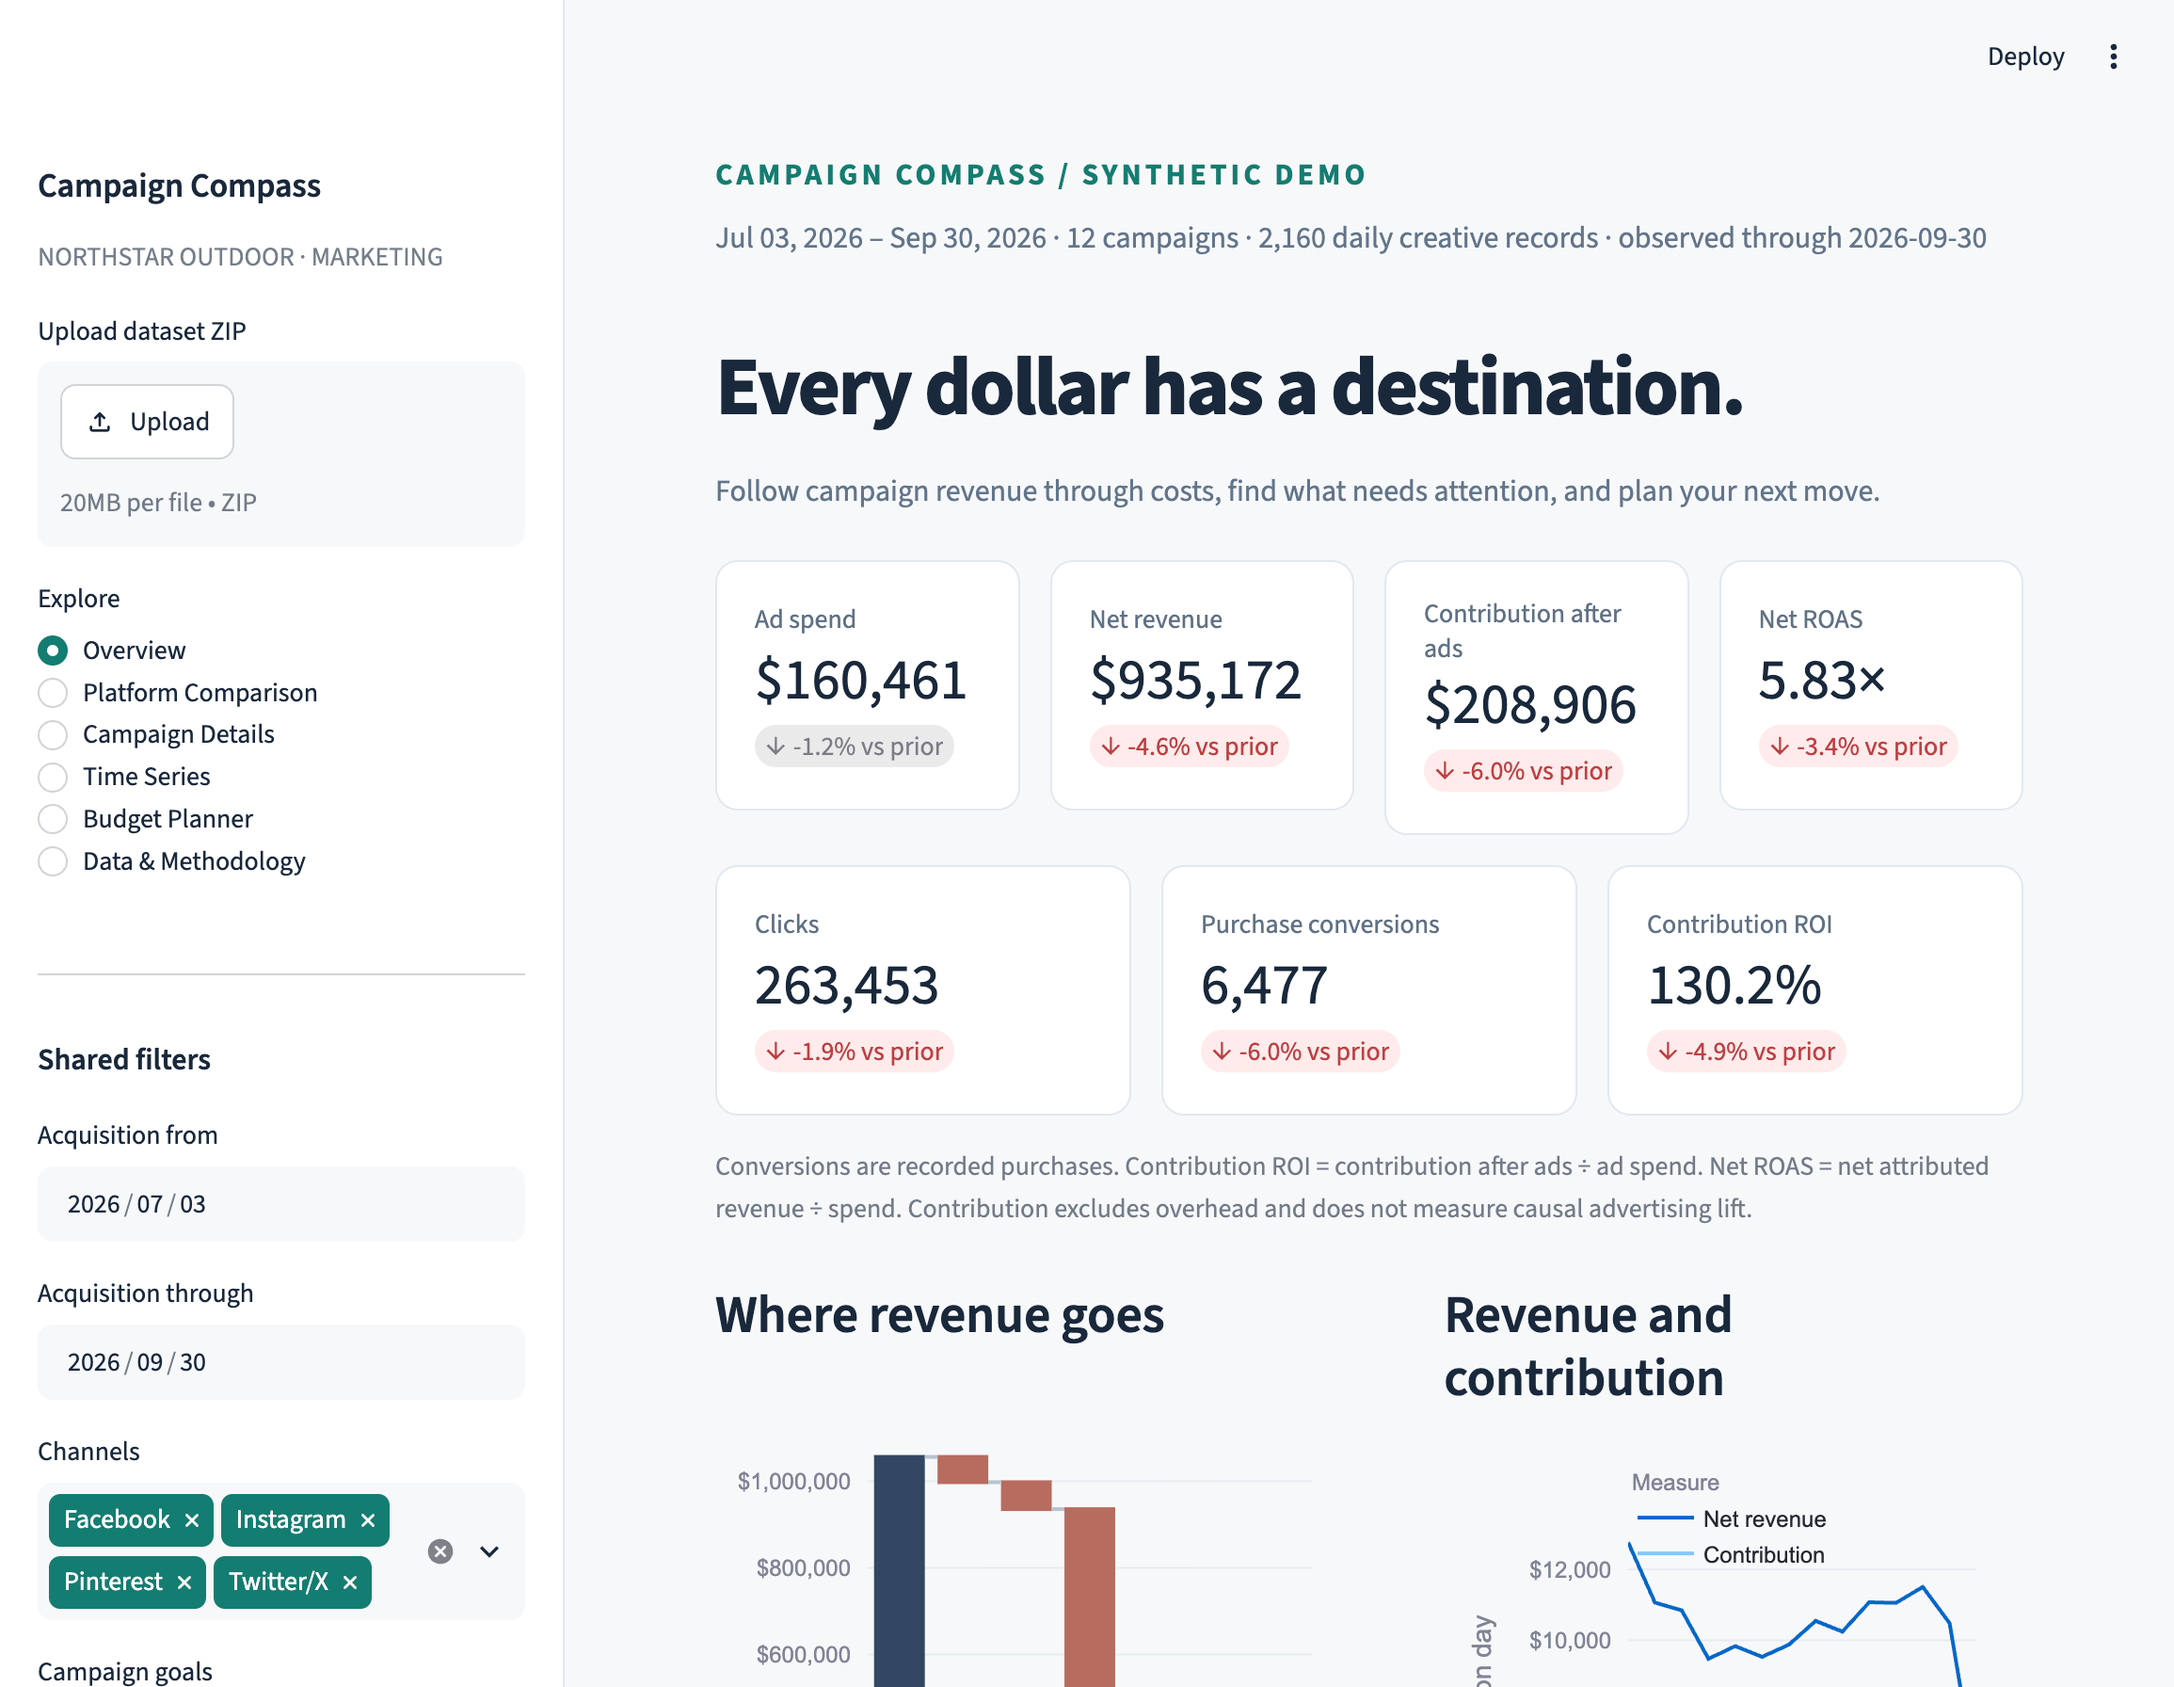
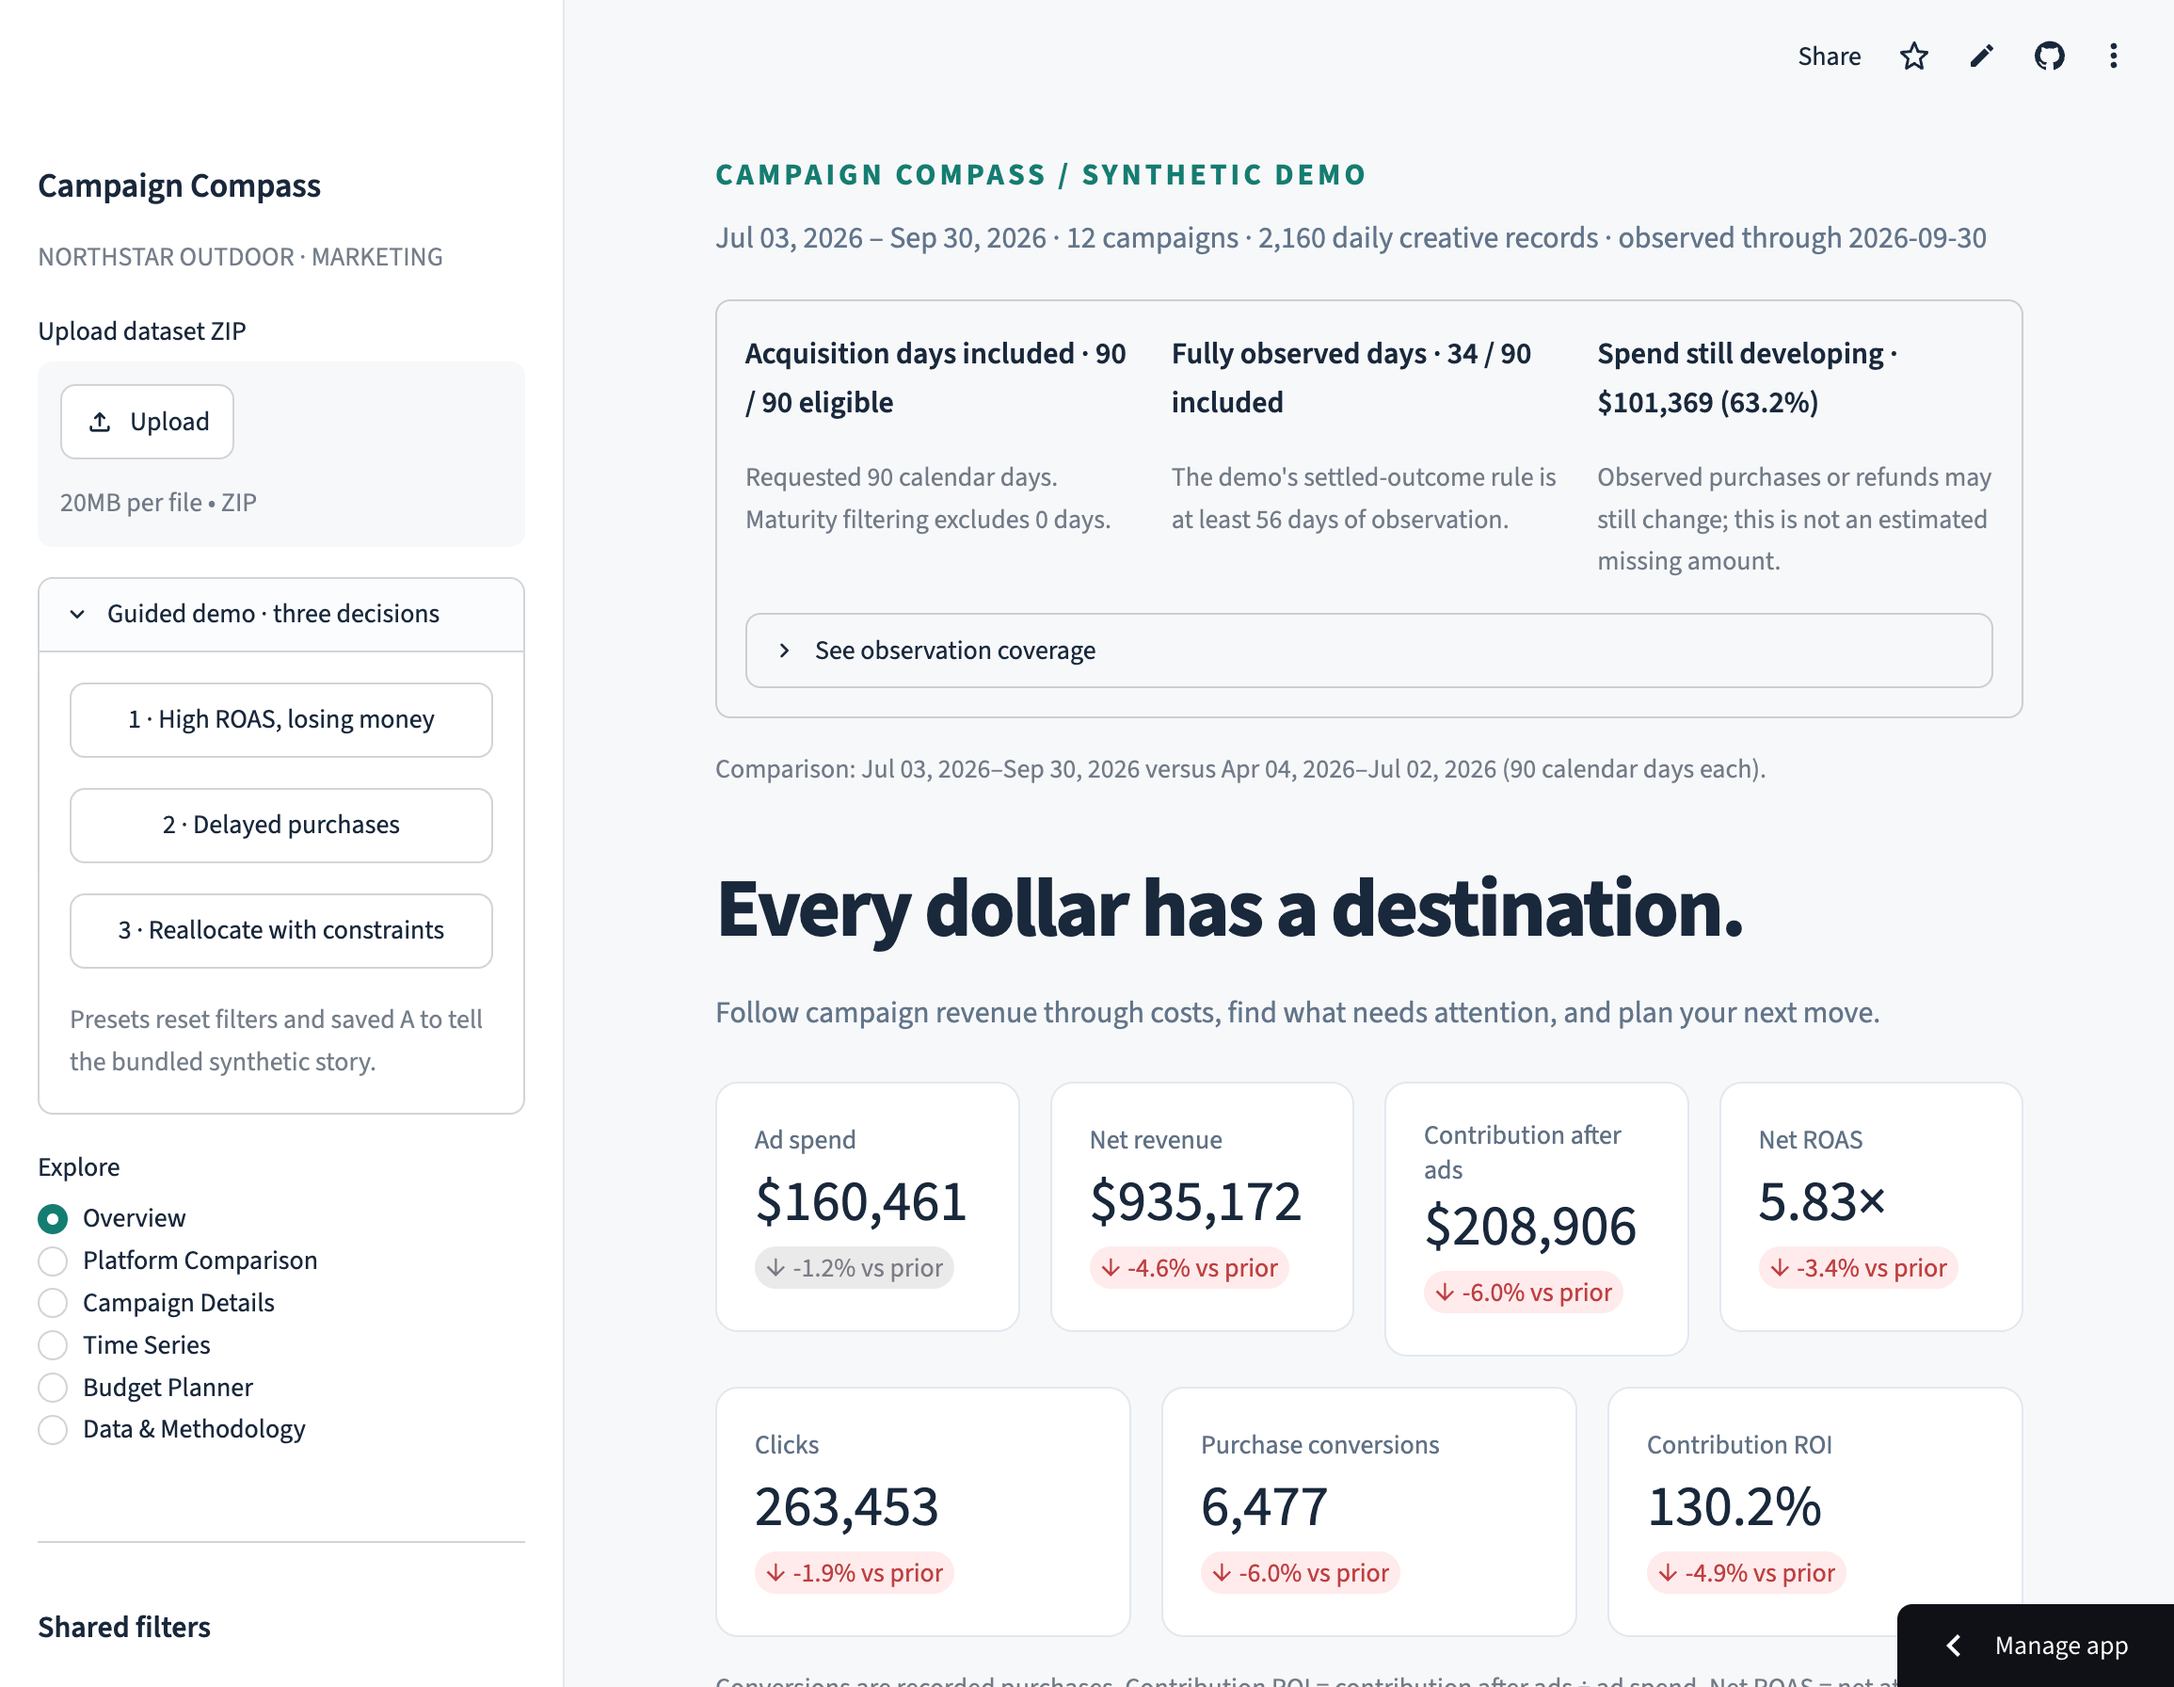
Refresh hosted screenshots and deployment verification

diff --git a/docs/BUILD_LOG.md b/docs/BUILD_LOG.md
@@ -44,3 +44,5 @@ Corrected mature-only periods before selecting the preceding comparison. The def
 Added visible included/eligible dates, fully observed dates, and developing spend, with explicit observation-age partitions. Three guided presets demonstrate high ROAS with a loss, delayed purchases, and constrained reallocation. Added deep-copied Scenario A, equal-budget and identical-scope guards, common-saturation evaluation of fixed A/B allocations, and CSV/HTML exports retaining both settings and allocations. A separate proportional baseline satisfies the current budget, limits, and locks.
 
 All 48 tests passed locally. Chrome verified the maturity comparison and all three presets. Saving the unlocked USD 8226.77 plan as A and locking Summit essentials for B showed approximately USD 42 less modeled contribution for B; the lock remained at USD 1494.36. Downloaded and independently opened the A/B brief in Chrome, confirming coverage, both budgets, constraints, and allocations. Updated the demo narration and submission document to match these features.
+
+Published commit `b5a7693`; GitHub Actions [38086937660](https://github.com/naresh25ganji/campaign-compass/actions/runs/38086937660) passed 48 tests. The cloud process retained an older imported analytics module after pulling the update; the logs showed the missing new export. Rebooted through Manage app, then verified the new public coverage panel and saved A/B comparison in Chrome. Refreshed both repository screenshots from the hosted version.

diff --git a/docs/DEPLOYMENT.md b/docs/DEPLOYMENT.md
@@ -16,6 +16,8 @@ Chrome smoke checks confirmed all six views, campaign investigation navigation, 
 
 Community Cloud may select `uv.lock` when installing dependencies; it is committed alongside the pinned `requirements.txt`. The app finds source tables relative to `app.py`.
 
+If an update adds exports to an existing Python module and the hosted process reports an import error after pulling the commit, open **Manage app → Reboot app** to load the new module definitions. This occurred during the October 10 update; rebooting cleared it. GitHub Actions run [38086937660](https://github.com/naresh25ganji/campaign-compass/actions/runs/38086937660) passed all 48 tests for commit `b5a7693`.
+
 After deployment, verify all six views, reset filters, click an investigation, and run the three guided presets. With mature-only filtering, check that the comparison uses 34 selected days and 34 prior days. Save a budget scenario as A, change a lock for B, and confirm equal totals and visible settings. Change the total to verify comparison is withheld, then restore A's total. Download the brief and confirm it includes coverage, both allocations, and a baseline satisfying the current constraints. Do not submit localhost as the public app link.
 
 Official guide: https://docs.streamlit.io/deploy/streamlit-community-cloud/deploy-your-app

diff --git a/README.md b/README.md
@@ -14,7 +14,7 @@ An impressive revenue multiple can hide losses after product costs, discounts, a
 
 ![Overview with campaign economics, clicks, conversions, and contribution ROI](docs/images/overview.png)
 
-![Budget planning with Summit essentials locked at its historical baseline](docs/images/budget-planner.png)
+![Saved Scenario A compared with Scenario B where Summit essentials is locked](docs/images/budget-planner.png)
 
 ## Start locally
 
